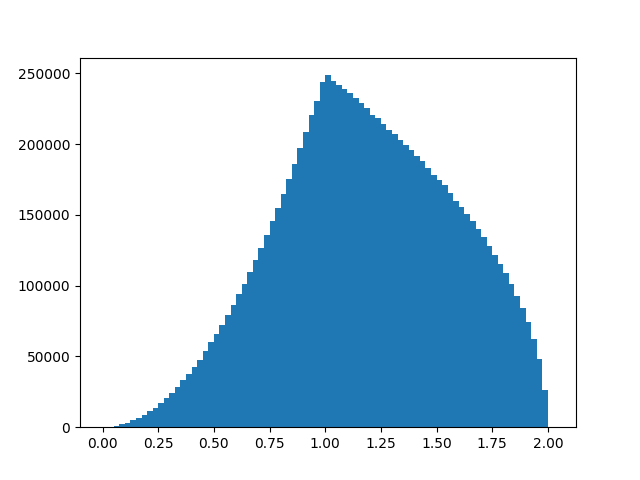
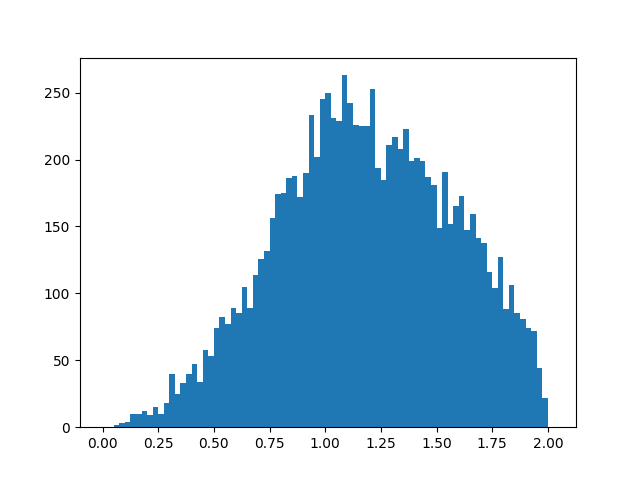
Finished 23.2 in fsharp. Starting random walk.

diff --git a/Algorithms/HW4/hw4.py b/Algorithms/HW4/hw4.py
@@ -19,7 +19,7 @@ def problem1():
     x = symbols('x')
     f = Piecewise((x**2, ((x >= 0) & (x <= 1))), (sqrt(2-x), ((x>1) & (x<=2))), (0, True))
     f = lambdify([x], f)
-    nsamples = int(1e7)
+    nsamples = int(1e4)
     samples = np.zeros((nsamples,))
     for i in range(0,nsamples):
         success = False
@@ -198,5 +198,5 @@ def problem4():
 
 problem1()
 problem2()
-problem3()
-problem4()
+#problem3()
+#problem4()
